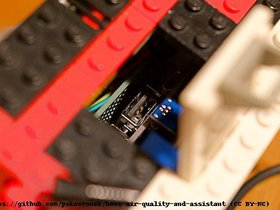
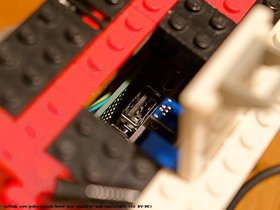
Updated README.md and fixed typos

diff --git a/www/assembled/index.html b/www/assembled/index.html
@@ -23,7 +23,7 @@
 
         <nav id="menu">
           <ul>
-            <li><a href="https://github.com/pskowronek/home-air-quality-and-assistant#screenshots--photos">Back to homw-air-quality @ github.com</a></li>
+            <li><a href="https://github.com/pskowronek/home-air-quality-and-assistant#screenshots--photos">Back to home-air-quality-and-assistant @ github.com</a></li>
           </ul>
         </nav>
 

diff --git a/README.md b/README.md
@@ -7,27 +7,69 @@ _Language versions:_\
 
 # Home Air Quality plus Voice Assistant
 
-This is project is a result of Covid-19 lockdown :)
-I've start with a simple monitoring tool to display in-door air quality using PMS5003ST or PMS7003 sensors and Raspberry Pi Zero with Waveshare 3.5inch display. Then things started to evolve :)
-Finally, the project includes:
-- a visualizer to display air quality readings - for this I use this project (that I'm also a co-author): [pm-home-station](https://github.com/rjaros87/pm-home-station/) - it uses alpha build that supports kiosk mode and PMS5003ST
-- a brightness service to control the Waveshare 3.5" display brightness, FYI this LCD display does not support this functionality OOB (see wiki how I hacked my way to add this functionality)
-- a voice assistant service that works offline by using [PocketSphinx](https://github.com/cmusphinx/pocketsphinx) to:
-  - display weather and Moon details (thanks to [wttr.in](https://github.com/chubin/wttr.in) - awesome project btw)
+This is project is a result of Covid-19 lockdown :) Some references you can find on top of the final assembly (like the police hunting people going outside :>).
+Basically, the project is to display in-door air quality metrics plus to give you a possibility to interact with the device using voice, akin to Alexa or Google Home - but offline :)
+
+I'm not saying that it is any better than Alexa or Google Home - it isn't, but it is DIY :) The language model is very simple, the CPU of Raspberry Pi Zero ain't a king - it does what it
+can to undestand the voice. The most important factor is a quality of USB soundcard and microphone.
+
+So, to recap - I've started with a simple monitoring tool to display indoor air quality using PMS5003ST or PMS7003 sensors and Raspberry Pi Zero with Waveshare 3.5inch display... then things started to evolve :)
+
+Finally the project includes three modules (services): visualizer, brightness and assistant.
+
+BTW, it was a quite nice journey through electronics & soldering, bash scripting on beloved Linux, plus java (pm-home-station) & python.
+
+## Visualizer
+
+To visualize the sensor's air quality readings I used this project that I'm also a co-author: [pm-home-station](https://github.com/rjaros87/pm-home-station/).
+It uses alpha build that supports small screen screens, Kiosk mode and PMS5003ST sensor that is able to measure formaldehyde concentration, humidity and temperature on top of pm2.5 and pm10 particles.
+
+The visualizer displays:
+- PM 1.0/2.5/10 readings + charts (PMS7003 and PMS5003ST)
+- formaldehyde, humidity & temperature readings + charts (PMS5003ST)
+
+## Brightness
+
+To control Waveshare 3.5" display brightness I wrote a simple script to constantly adjust the brightness based on light sensor readings. The only trouble was that this LCD display does not support this
+functionality OOB :) See [project's wiki](https://github.com/pskowronek/home-air-quality-and-assistant/wiki) how I hacked my way to add this functionality.
+
+## Assistant
+
+To display more information on this device I integrated a simple voice controlled assistant. It works offline even on RPi thanks to [PocketSphinx](https://github.com/cmusphinx/pocketsphinx).
+
+Currently the assistant can be used to do the following things:
+  - show weather and Moon details (thanks to [wttr.in](https://github.com/chubin/wttr.in) - awesome project btw)
   - tell some old jokes (using 'fortune' linux command)
-  - state uptime
+  - display uptime
   - initiate reboot
+
+The assistant itself can be easily reconfigured to understand additional commands - one must edit [config.yaml](https://github.com/pskowronek/home-air-quality-and-assistant/blob/master/assistant/config.yaml) and specialized [bash scripts](https://github.com/pskowronek/home-air-quality-and-assistant/tree/master/assistant/scripts) can be written to execute those commands.
+A default configuration tries to react for two invocation words: [Cybill](https://en.wikipedia.org/wiki/Cybill_Shepherd) and [Bruce](https://en.wikipedia.org/wiki/Bruce_Willis) (we've got their posters on the wall behind, hence the idea for invocation words). This can also be easily reconfigured.
+Each of the invocation words can have their voice adjusted, for example Cybill answers with a female voice, whereas Bruce with a male voice.
+
+Some sample commands that are available out of the box:
+  - Bruce, what is the weather like?
+  - Cybill, what is the weather tomorrow?
+  - Bruce, how is the Moon today?
+  - Cybill, tell me a joke
+  - Bruce, show me uptime
+  - Cybill, reboot now
+
+Of course voice recognition isn't perfect - a lot depends on soundcard & mike quality.
 
 ## Screenshots / Photos
 
 ### Screenshots
+
+Some animated screenshots how it works when interacting with voice commands
 ![Screenshots](https://github.com/pskowronek/home-air-quality-and-assistant/raw/master/www/screenshots/screenshots.gif)
 
 
 ### Photos
-[![Assembled](https://pskowronek.github.io/home-air-quality-and-assistant/www/assembled/01.JPG)](https://pskowronek.github.io/home-air-quality-and-assistant/www/assembled/index.html "Photos of the assembled home-air-quality-and-assistant")
 
-More photos of the assembled project enclosed in a custom-built LEGO™ housing are [here](https://pskowronek.github.io/home-air-quality-and-assistant/www/assembled/index.html "Photos of assembled home-air-quality-and-assistant").
+[![Assembled](https://pskowronek.github.io/home-air-quality-and-assistant/www/assembled/00.JPG)](https://pskowronek.github.io/home-air-quality-and-assistant/www/assembled/index.html "Photos of the assembled home-air-quality-and-assistant")
+
+More photos of how it was enclosed in a custom-built LEGO™ housing are [here](https://pskowronek.github.io/home-air-quality-and-assistant/www/assembled/index.html "Photos of assembling home-air-quality-and-assistant").
 
 *BTW, these LEGO bricks are almost 30 years old (!)*
 
@@ -38,10 +80,12 @@ More photos of the assembled project enclosed in a custom-built LEGO™ housing 
 - [PMS7003](https://botland.com.pl/en/sensors-clean-air/10924-dust-air-clean-sensor-pms7003-33v-uart.html?search_query=PMS7003&results=6) or PMS5003ST sensors (the latter one is able to sense formaldehyde, temperature & humidity)
 - [Waveshare 3.5" inch display for Raspberry Pi](https://botland.com.pl/en/displays-raspberry-pi/4479-touch-screen-a-resistive-lcd-35-320x480px-gpio-for-raspberry-pi-432bzero-waveshare-9904.html)
 - [USB hub hat](https://botland.com.pl/en/raspberry-pi-hat-extenders-findings/8870-hub-usb-hat-4-port-hub-for-raspberry-pi-4b3b3bzero-waveshare-12694.html)
-- mini usb soundcard - try to find not the cheapest ones, but rather of good quality to have good microphone input (no noise etc)
-- a mini microphone
+- GY-2561 I2C light sensor to control the brightness thru GPIO PWM output via optocoupler and NPN transistor (see [wiki](https://github.com/pskowronek/home-air-quality-and-assistant/wiki))
+- mini USB soundcard - try to find not the cheapest one, but rather a good quality one that has a good microphone signal (no noise etc)
+- a mini microphone of decent quality
 - a mini speaker (like MG15 0.1W 8ohm) plus amp [module](https://botland.com.pl/en/mp3-wav-oog-midi/6641-amplifier-audio-stereo-2x3w-5v-arduino-bascom-avr-green.html)
-- 16GB SD card (as fast as possible due to voice assistant and responsiveness)
+- 16GB SD card (as fast as possible due to voice assistant and its responsiveness)
+- a [fan](https://botland.com.pl/en/fans/15056-fan-5v-30x30x10-mm-for-raspberry-pi-case.html) to cool down PMS5003ST laying close to LCD display, so it can read a real temperature (connected the fan to 3V so it is quiet and still does the job)
 
 ## Installation
 
@@ -50,26 +94,27 @@ More photos of the assembled project enclosed in a custom-built LEGO™ housing 
 - find the IP of RPi by scanning your local network or take a look at your router to find a new device connected to your network
 - SSH to your raspberry: ```ssh pi@10.20.30.40```
 - install git: ```sudo apt install git```
-- issue the command to fetch this project: ```git clone https://github.com/pskowronek/home-air-quality-and-assistant.git```
-- go to the project directory: ```cd home-air-quality-and-assistant``` and run the automatic installer: ```./install.sh``` - this should hopefully install everything you need
+- being in home directory issue the following command to fetch this project: ```git clone https://github.com/pskowronek/home-air-quality-and-assistant.git```
+- go to the project directory: ```cd ~/home-air-quality-and-assistant``` and run the installer: ```./install.sh``` - this should hopefully walk you thru to install everything you need
   - if it fails then please try to analyze any error statements and follow instructions if provided
-  - use Raspbian Buster, if you have Stretch the consider upgrading (a good instructions are [here](http://baddotrobot.com/blog/2019/08/29/upgrade-raspian-stretch-to-buster/))
+  - use Raspbian Buster. If you have Stretch then consider upgrading to Buster (quite good instructions are [here](http://baddotrobot.com/blog/2019/08/29/upgrade-raspian-stretch-to-buster/))
   - before you report a bug, try to google it first :)
-- The installer above should ask you whether you want to register 3 services: visualizer, brightness, assistant (brightness is optional if don't have LCD display that supports this).
-This will let those service to automatically run when Raspberry boots up (more details [here](https://www.raspberrypi.org/documentation/linux/usage/systemd.md))
-  - verify if service works by invoking the following commands:
+- the installer above should ask you whether you want to register 3 services: visualizer, brightness, assistant (all of them are optional, for instance you can have the assistant without the other two).
+This will let those services to be automatically run when Raspberry boots up (more details [here](https://www.raspberrypi.org/documentation/linux/usage/systemd.md))
+  - verify if any given service works by invoking the following command(s):
     - ```sudo systemctl start visualizer.service```
     - ```sudo systemctl start brightness.service```
     - ```sudo systemctl start assistant.service```
-  - reboot device to verify if it works
-  - logs can be observed in /var/log/syslog: ```sudo tail -f /var/log/syslog```
+  - reboot the device to verify if it works as expacted
+  - logs can be observed by tracing /var/log/syslog: ```sudo tail -f /var/log/syslog```
 
 ## Tech details
 
+The tech details can be found on [wiki](https://github.com/pskowronek/home-air-quality-and-assistant/wiki) page.
 
 ## License
 
-Thie project is covered by Apache 2 license.
+This project is covered by Apache 2 license.
 
 ## Authors
 
